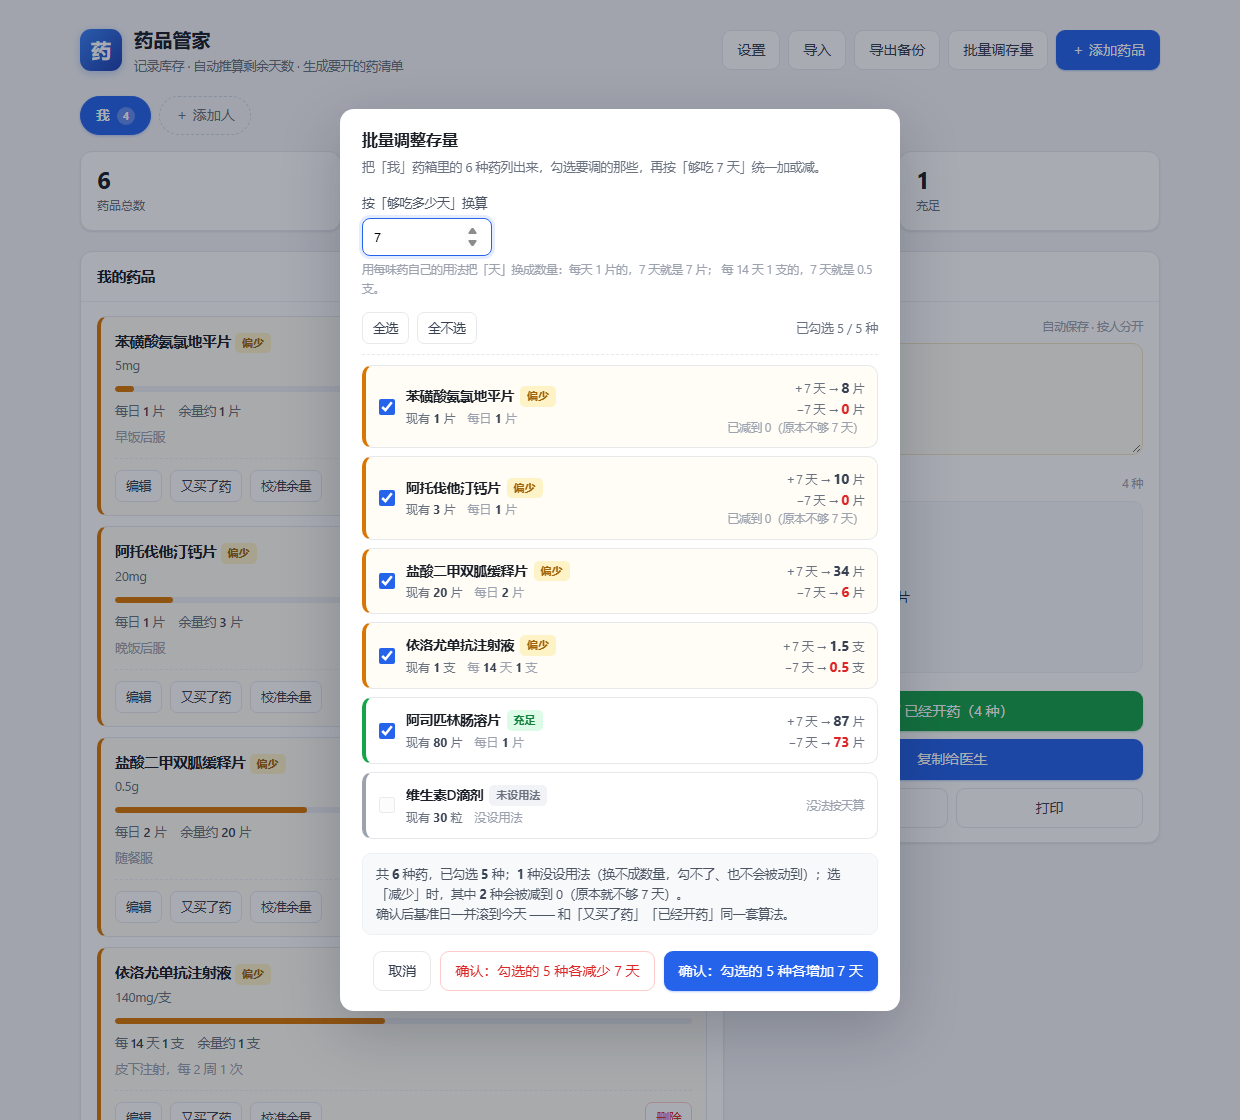
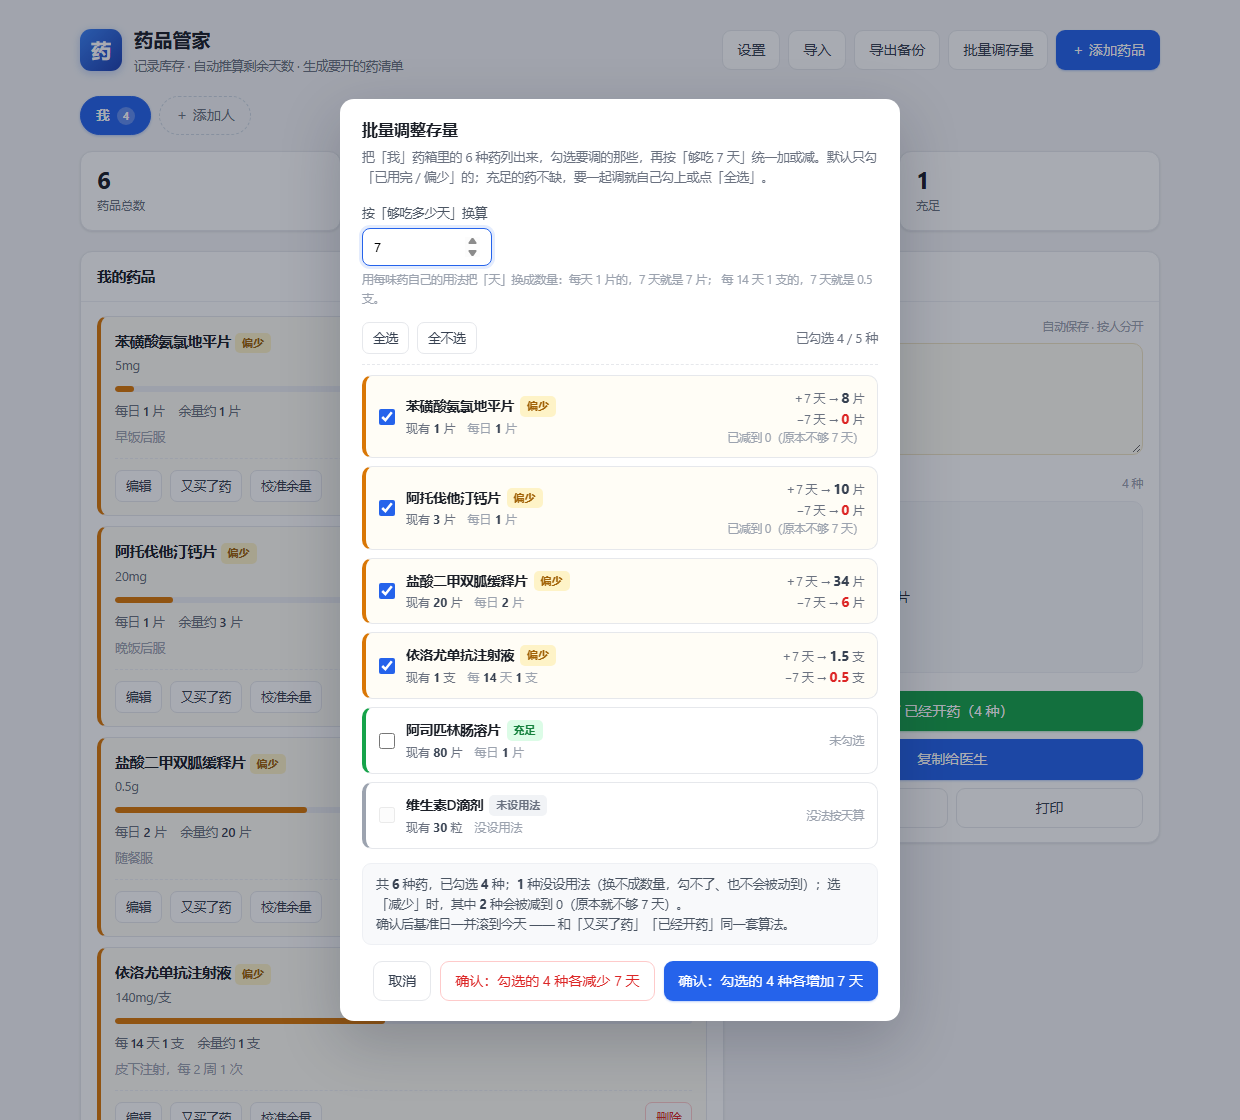
sync: 2026-10-12 11:52

diff --git a/index.html b/index.html
@@ -1345,16 +1345,23 @@ function bulkRows(days, sign){
   });
 }
 // ★ 2026-10-12 用户要求：这个弹窗要能**挑着调**——列出全部药品（顺序和主页一样）、
-//   每行一个勾选框（默认全勾）、行色按档位标出「哪些药不够了」，没设用法的药勾不了。
-//   勾选状态放 bulkPicked（id → true），每次点开弹窗重置为「能调的都勾上」。
+//   每行一个勾选框、行色按档位标出「哪些药不够了」，没设用法的药勾不了。
+//   勾选状态放 bulkPicked（id → true），每次点开弹窗重置为**默认档**（见 bulkDefaultPick）。
 let bulkPicked = {};
 function bulkPickable(m){ return dailyUse(m) > 0; }      // 没设用法 → 天数换不成数量，调不了
+// 默认勾「已用完 / 偏少」的 —— 也就是真正要补的那批；「充足」的不勾（它不缺，调它属于误操作）。
+// 用户 2026-10-12：「默认打钩的是已用完和偏少的 充足的不用打勾」。
+// 想让充足的也一起调 → 点「全选」，或自己把那个框勾上（全选仍等于「能调的全勾」）。
+function bulkDefaultPick(m){
+  const lv = level(m);
+  return bulkPickable(m) && (lv === 'out' || lv === 'soon');
+}
 function bulkPickedCount(){
   return meds.filter(function(m){ return bulkPickable(m) && bulkPicked[m.id]; }).length;
 }
 function bulkResetPicks(){
   bulkPicked = {};
-  meds.forEach(function(m){ if(bulkPickable(m)) bulkPicked[m.id] = true; });
+  meds.forEach(function(m){ if(bulkDefaultPick(m)) bulkPicked[m.id] = true; });
 }
 
 function openBulk(){
@@ -1412,7 +1419,8 @@ function renderBulk(){
   bulkRows(days, -1).forEach(function(r){ dn[r.m.id] = r; });
 
   $('#bulkSub').textContent = '把「' + (who ? who.name : '当前人') + '」药箱里的 '
-    + meds.length + ' 种药列出来，勾选要调的那些，再按「够吃 ' + days + ' 天」统一加或减。';
+    + meds.length + ' 种药列出来，勾选要调的那些，再按「够吃 ' + days + ' 天」统一加或减。'
+    + '默认只勾「已用完 / 偏少」的；充足的药不缺，要一起调就自己勾上或点「全选」。';
 
   $('#bulkList').innerHTML = order.map(function(m){
     return bulkRowHTML(m, up[m.id], dn[m.id], days);

diff --git a/_check/test_rxcap.py b/_check/test_rxcap.py
@@ -282,35 +282,54 @@ PROBE = r"""
      document.querySelectorAll('#bulkList .disp-name .tag').length === 6,
      document.querySelectorAll('#bulkList .disp-name .tag').length);
 
-  // ★ 勾选框：默认把「能按天换算」的都勾上，没设用法的勾不了
+  // ★ 勾选框：默认**只勾「已用完 / 偏少」**的（充足的不勾），没设用法的勾不了
+  //   2026-10-12 用户要求：「默认打钩的是已用完和偏少的 充足的不用打勾」。
+  function ckOf(n){
+    return document.querySelector('#bulkList input.bulk-ck[data-id="' + byName(n).id + '"]');
+  }
+  function afterOf(n){ return q('#bulkAfter-' + byName(n).id).textContent.trim(); }
+  function setCk(n, on){
+    var c = ckOf(n);
+    c.checked = on;
+    c.dispatchEvent(new Event('change', {bubbles:true}));
+  }
   var cks = document.querySelectorAll('#bulkList input.bulk-ck');
   var nCk = Array.prototype.filter.call(cks, function(c){ return c.checked; }).length;
   var nDis = Array.prototype.filter.call(cks, function(c){ return c.disabled; }).length;
   ck('每行都有勾选框', cks.length === 6, cks.length);
-  ck('默认勾上 5 味、禁用 1 味（没设用法那味）', nCk === 5 && nDis === 1, nCk + ' / ' + nDis);
-  ck('底部写清已勾选几种', /已勾选 5 \/ 5 种/.test(q('#bulkPickHint').textContent),
+  ck('默认勾上 4 味（4 味偏少）、禁用 1 味（没设用法）', nCk === 4 && nDis === 1, nCk + ' / ' + nDis);
+  ck('「偏少」的默认勾上（依洛尤）', ckOf('依洛尤单抗注射液').checked === true, '');
+  ck('「偏少」的默认勾上（氨氯地平）', ckOf('苯磺酸氨氯地平片').checked === true, '');
+  ck('「充足」的默认不勾（阿司匹林）', ckOf('阿司匹林肠溶片').checked === false, '');
+  ck('「充足」的默认不勾 → 那行只写「未勾选」、不给数字', afterOf('阿司匹林肠溶片') === '未勾选',
+     afterOf('阿司匹林肠溶片'));
+  ck('底部写清已勾选几种（4 / 5）', /已勾选 4 \/ 5 种/.test(q('#bulkPickHint').textContent),
      q('#bulkPickHint').textContent);
-  ck('按钮带上了天数', /勾选的 5 种各增加 7 天/.test(q('#btnBulkPlus').textContent)
-     && /勾选的 5 种各减少 7 天/.test(q('#btnBulkMinus').textContent),
+  ck('按钮带上了天数与实数', /勾选的 4 种各增加 7 天/.test(q('#btnBulkPlus').textContent)
+     && /勾选的 4 种各减少 7 天/.test(q('#btnBulkMinus').textContent),
      q('#btnBulkPlus').textContent);
+  ck('说明里写清了默认勾选规则', /默认只勾「已用完 \/ 偏少」/.test(q('#bulkSub').textContent),
+     q('#bulkSub').textContent);
   q('#bulkDays').value = 14; renderBulk();
-  ck('改天数 → 按钮与预览跟着变', /勾选的 5 种各增加 14 天/.test(q('#btnBulkPlus').textContent),
+  ck('改天数 → 按钮与预览跟着变', /勾选的 4 种各增加 14 天/.test(q('#btnBulkPlus').textContent),
      q('#btnBulkPlus').textContent);
   q('#bulkDays').value = 7; renderBulk();
 
-  // ★ 取消勾选一味 → 那一行不再给数字，汇总与按钮当场跟着变
-  var aspId = byName('阿司匹林肠溶片').id;
-  var aspCk = document.querySelector('#bulkList input.bulk-ck[data-id="' + aspId + '"]');
-  aspCk.checked = false;
-  aspCk.dispatchEvent(new Event('change', {bubbles:true}));
-  var aspRow = q('#bulkAfter-' + aspId).textContent.trim();
-  ck('取消勾选后那行写「未勾选」，不再给数字', aspRow === '未勾选', aspRow);
+  // ★ 默认不勾 ≠ 调不了：自己把「充足」那味勾上，它照样能一起调
+  setCk('阿司匹林肠溶片', true);
+  ck('手动勾上充足的药 → 已勾选 5 / 5', /已勾选 5 \/ 5 种/.test(q('#bulkPickHint').textContent),
+     q('#bulkPickHint').textContent);
+  ck('手动勾上后那行照常给数字', /＋7 天/.test(afterOf('阿司匹林肠溶片')), afterOf('阿司匹林肠溶片'));
+
+  // ★ 取消勾选一味（偏少的） → 那一行不再给数字，汇总与按钮当场跟着变
+  setCk('盐酸二甲双胍缓释片', false);
+  ck('取消勾选后那行写「未勾选」，不再给数字', afterOf('盐酸二甲双胍缓释片') === '未勾选',
+     afterOf('盐酸二甲双胍缓释片'));
   ck('取消勾选 → 底部变成已勾选 4 / 5', /已勾选 4 \/ 5 种/.test(q('#bulkPickHint').textContent),
      q('#bulkPickHint').textContent);
   ck('取消勾选 → 按钮文案变成 4 种', /勾选的 4 种各增加 7 天/.test(q('#btnBulkPlus').textContent),
      q('#btnBulkPlus').textContent);
-  ck('没被取消的行照旧给数字', /＋7 天/.test(q('#bulkAfter-' + byName('盐酸二甲双胍缓释片').id).textContent),
-     q('#bulkAfter-' + byName('盐酸二甲双胍缓释片').id).textContent);
+  ck('没被取消的行照旧给数字', /＋7 天/.test(afterOf('苯磺酸氨氯地平片')), afterOf('苯磺酸氨氯地平片'));
 
   // ★ 全不选 → 两个确认按钮禁用（避免"什么都没选就点确认"）
   q('#btnBulkNone').click();
@@ -356,7 +375,11 @@ PROBE = r"""
      R.alerts[R.alerts.length - 1]);
 
   // --- 7d. 减少到负数 → 截到 0，不许出现负库存 ---
+  // 注：默认只勾「已用完 / 偏少」，这里要验全药箱一起减，所以先点「全选」。
   openBulk(); q('#bulkDays').value = 100; renderBulk();
+  q('#btnBulkAll').click();
+  ck('点全选后 5 味都在勾上（含充足的那味）', /已勾选 5 \/ 5 种/.test(q('#bulkPickHint').textContent),
+     q('#bulkPickHint').textContent);
   applyBulk(-1);
   var five = ['苯磺酸氨氯地平片','阿托伐他汀钙片','盐酸二甲双胍缓释片','阿司匹林肠溶片','依洛尤单抗注射液'];
   ck('减 100 天：5 味全到 0，没有负数',
@@ -375,7 +398,8 @@ PROBE = r"""
 
   // --- 7f. ★ 2026-10-12 新增：只勾一部分 → 没勾的必须一根手指都不碰 ---
   // 此刻 5 味都已被减到 0，维生素D 仍是 30。
-  openBulk();                                   // 默认全勾，先把别的取消
+  // 此刻 5 味都已用完 → 默认就把这 5 味全勾上了（「已用完」在默认档里），先把别的取消
+  openBulk();
   ['苯磺酸氨氯地平片','阿托伐他汀钙片','盐酸二甲双胍缓释片','依洛尤单抗注射液']
     .forEach(function(n){
       var c = document.querySelector('#bulkList input.bulk-ck[data-id="' + byName(n).id + '"]');

diff --git a/README.md b/README.md
@@ -119,7 +119,8 @@
 
 - 弹窗里列出**全部药品**，**顺序和主页一模一样**（先按「已用完 → 偏少 → 充足 → 未设用法」，同档按剩余天数少的靠前）；
 - 每行带**档位颜色**和标签，一眼看出哪些药快没了 —— 和主页卡片同一套配色；
-- **挑着调**：每行一个勾选框（默认把能换算的都勾上），只想改几味就点掉其余的；
+- **挑着调**：每行一个勾选框，**默认只勾「已用完 / 偏少」的**（也就是真要补的那批）；
+  充足的药不缺，默认不勾 —— 想连它一起调就自己勾上，或点「全选」；
   顶部有「全选 / 全不选」，右边一直显示「已勾选 N / M 种」，确认按钮上写的就是这个 N；
 - 每天 1 片的，7 天 = 7 片；每天 2 片的，7 天 = 14 片；每 14 天 1 支的，7 天 = 0.5 支；
 - 没填用法的药换不成数量，**勾不了**，行上直接写「没法按天算」，底部说明是哪几种；
@@ -151,7 +152,7 @@
 
 ```
 index.html            程序本体：单文件，拷走就能跑
-_check/test_rxcap.py  自检脚本 —— 无头 Chrome 跑 149 项断言（口径、入库、文案、批量调存量、中间弹窗）
+_check/test_rxcap.py  自检脚本 —— 无头 Chrome 跑 157 项断言（口径、入库、文案、批量调存量、中间弹窗）
 _check/shot.py        重新生成 docs/ 里的截图
 docs/                 README 用的截图
 ```
@@ -163,7 +164,7 @@ python _check/test_rxcap.py
 ```
 
 它会用无头 Chrome 打开一份临时副本（数据由脚本临时注入，不会写回 `index.html`），
-把 149 条断言的通过情况打印出来，退出码非 0 就是有回归。
+把 157 条断言的通过情况打印出来，退出码非 0 就是有回归。
 
 > 程序内**没有内置示例数据**，打开就是空药箱 —— 示例数据里带着病情描述，不该跟着代码分发。
 
